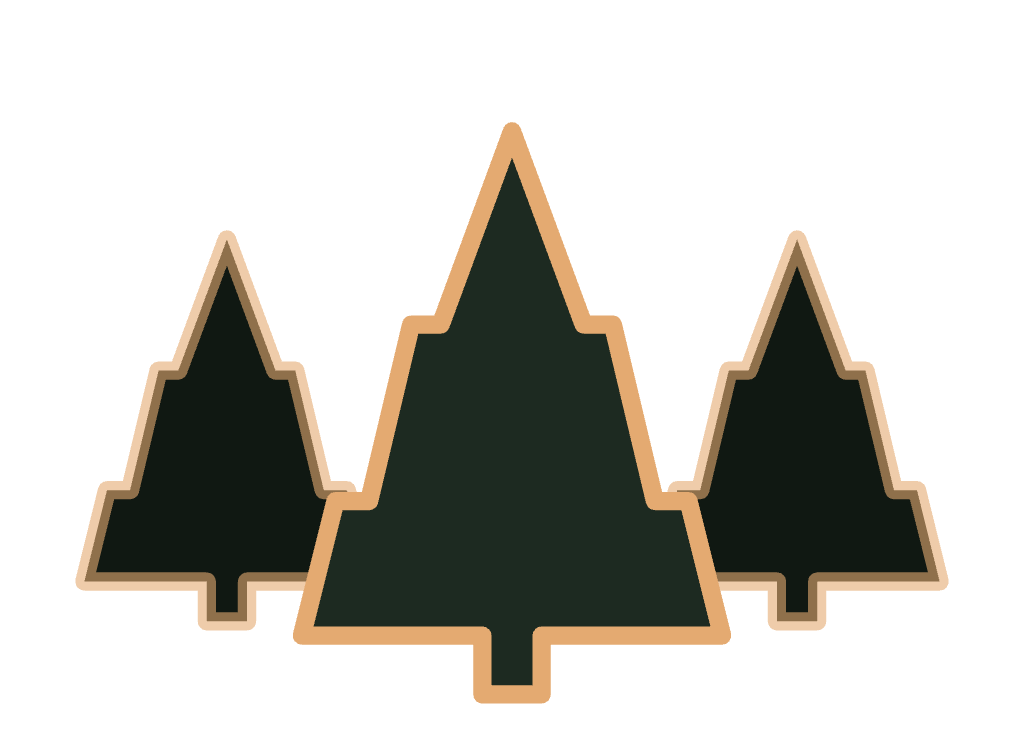
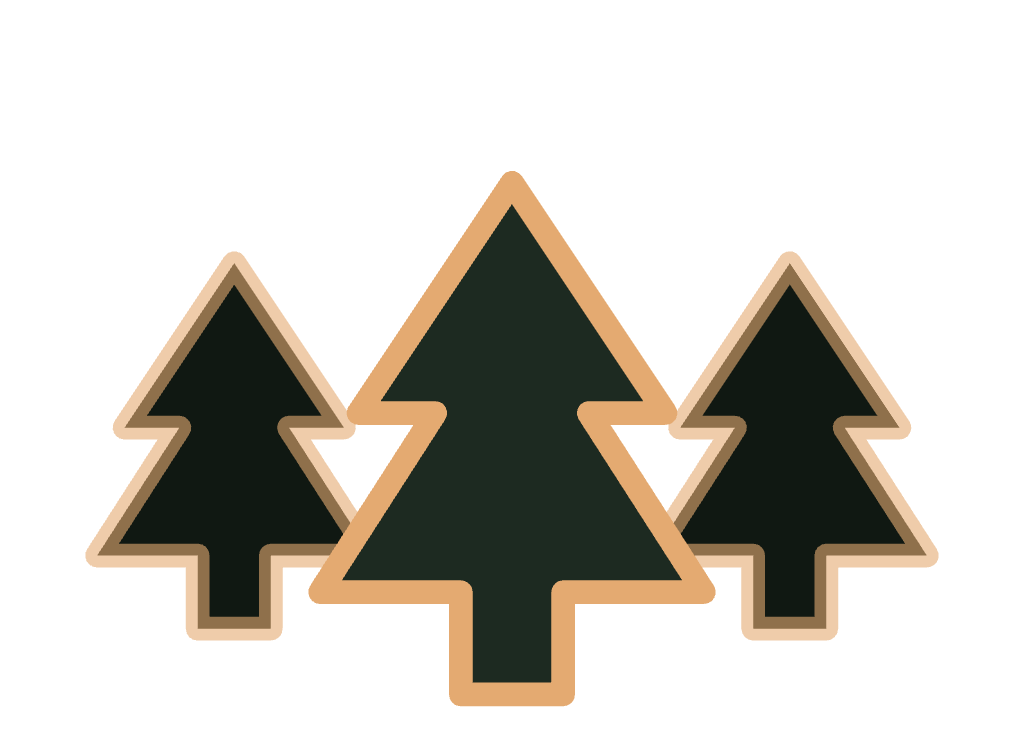
the grove rebuilt from the canonical TreeMark (tylergranlund.com's own tree, verbatim geometry): title + name slides animate the true silhouette, official PNGs everywhere

Changed region(s): [[0.0625, 0.301, 0.9375, 0.9932], [0.4375, 0.1505, 0.5625, 0.3311]]

diff --git a/docs/decks/the-great-adpuppytion/leather-apron-club/index.html b/docs/decks/the-great-adpuppytion/leather-apron-club/index.html
@@ -22,9 +22,9 @@
 
   <svg class="grove-anim" viewBox="0 0 280 200" aria-hidden="true">
       <g stroke="#E4AA71" stroke-width="5" stroke-linejoin="round">
-        <path class="gp gb" pathLength="1" d="M62.0 65.5 L75.3 101.4 L80.7 101.4 L88.5 134.1 L94.8 134.1 L101.0 159.1 L67.5 159.1 L67.5 170.0 L56.5 170.0 L56.5 159.1 L23.0 159.1 L29.2 134.1 L35.5 134.1 L43.3 101.4 L48.7 101.4 Z"/>
-        <path class="gp gb" pathLength="1" d="M218.0 65.5 L231.3 101.4 L236.7 101.4 L244.5 134.1 L250.8 134.1 L257.0 159.1 L223.5 159.1 L223.5 170.0 L212.5 170.0 L212.5 159.1 L179.0 159.1 L185.2 134.1 L191.5 134.1 L199.3 101.4 L204.7 101.4 Z"/>
-        <path class="gp gf" pathLength="1" d="M140.0 35.9 L159.6 88.8 L167.6 88.8 L179.1 137.1 L188.3 137.1 L197.5 173.9 L148.1 173.9 L148.1 190.0 L131.9 190.0 L131.9 173.9 L82.5 173.9 L91.7 137.1 L100.9 137.1 L112.4 88.8 L120.5 88.8 Z"/>
+        <path class="gp gb" pathLength="1" d="M64.00 72.00 L34.00 117.00 L49.00 117.00 L26.50 152.00 L54.00 152.00 L54.00 172.00 L74.00 172.00 L74.00 152.00 L101.50 152.00 L79.00 117.00 L94.00 117.00 Z"/>
+        <path class="gp gb" pathLength="1" d="M216.00 72.00 L186.00 117.00 L201.00 117.00 L178.50 152.00 L206.00 152.00 L206.00 172.00 L226.00 172.00 L226.00 152.00 L253.50 152.00 L231.00 117.00 L246.00 117.00 Z"/>
+        <path class="gp gf" pathLength="1" d="M140.00 50.00 L98.00 113.00 L119.00 113.00 L87.50 162.00 L126.00 162.00 L126.00 190.00 L154.00 190.00 L154.00 162.00 L192.50 162.00 L161.00 113.00 L182.00 113.00 Z"/>
       </g>
     </svg>
   <p class="eyebrow">Philadelphia 1727 → Bentonville · Arkansas 2026</p>
@@ -41,9 +41,9 @@
   <h1 style="font-size:2.3em;max-width:22em;margin:0 auto;">Granlund is Swedish for <em>spruce grove.</em><br/>The name was the map before the mission.</h1>
   <svg class="grove-anim" style="height:205px;margin:22px auto 0;display:block;filter:drop-shadow(0 10px 40px rgba(228,170,113,.3));" viewBox="0 0 280 200" aria-hidden="true">
       <g stroke="#E4AA71" stroke-width="5" stroke-linejoin="round">
-        <path class="gp gb" pathLength="1" d="M62.0 65.5 L75.3 101.4 L80.7 101.4 L88.5 134.1 L94.8 134.1 L101.0 159.1 L67.5 159.1 L67.5 170.0 L56.5 170.0 L56.5 159.1 L23.0 159.1 L29.2 134.1 L35.5 134.1 L43.3 101.4 L48.7 101.4 Z"/>
-        <path class="gp gb" pathLength="1" d="M218.0 65.5 L231.3 101.4 L236.7 101.4 L244.5 134.1 L250.8 134.1 L257.0 159.1 L223.5 159.1 L223.5 170.0 L212.5 170.0 L212.5 159.1 L179.0 159.1 L185.2 134.1 L191.5 134.1 L199.3 101.4 L204.7 101.4 Z"/>
-        <path class="gp gf" pathLength="1" d="M140.0 35.9 L159.6 88.8 L167.6 88.8 L179.1 137.1 L188.3 137.1 L197.5 173.9 L148.1 173.9 L148.1 190.0 L131.9 190.0 L131.9 173.9 L82.5 173.9 L91.7 137.1 L100.9 137.1 L112.4 88.8 L120.5 88.8 Z"/>
+        <path class="gp gb" pathLength="1" d="M64.00 72.00 L34.00 117.00 L49.00 117.00 L26.50 152.00 L54.00 152.00 L54.00 172.00 L74.00 172.00 L74.00 152.00 L101.50 152.00 L79.00 117.00 L94.00 117.00 Z"/>
+        <path class="gp gb" pathLength="1" d="M216.00 72.00 L186.00 117.00 L201.00 117.00 L178.50 152.00 L206.00 152.00 L206.00 172.00 L226.00 172.00 L226.00 152.00 L253.50 152.00 L231.00 117.00 L246.00 117.00 Z"/>
+        <path class="gp gf" pathLength="1" d="M140.00 50.00 L98.00 113.00 L119.00 113.00 L87.50 162.00 L126.00 162.00 L126.00 190.00 L154.00 190.00 L154.00 162.00 L192.50 162.00 L161.00 113.00 L182.00 113.00 Z"/>
       </g>
     </svg>
 </section>
